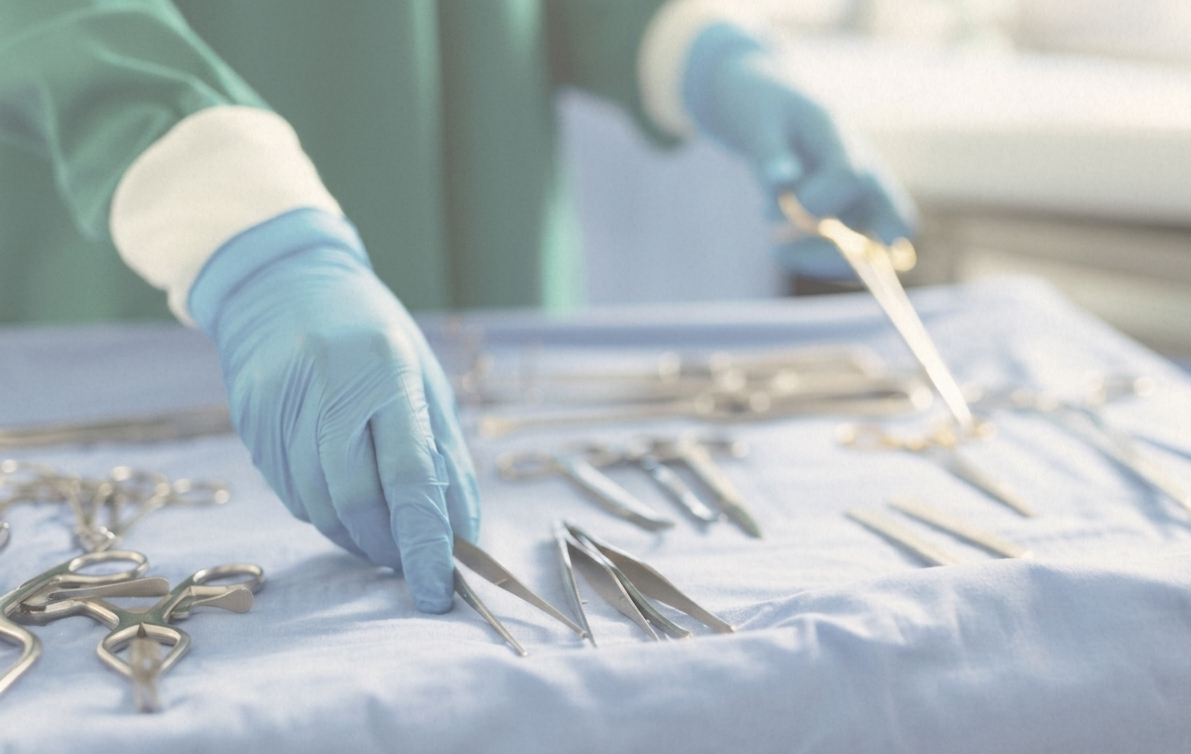
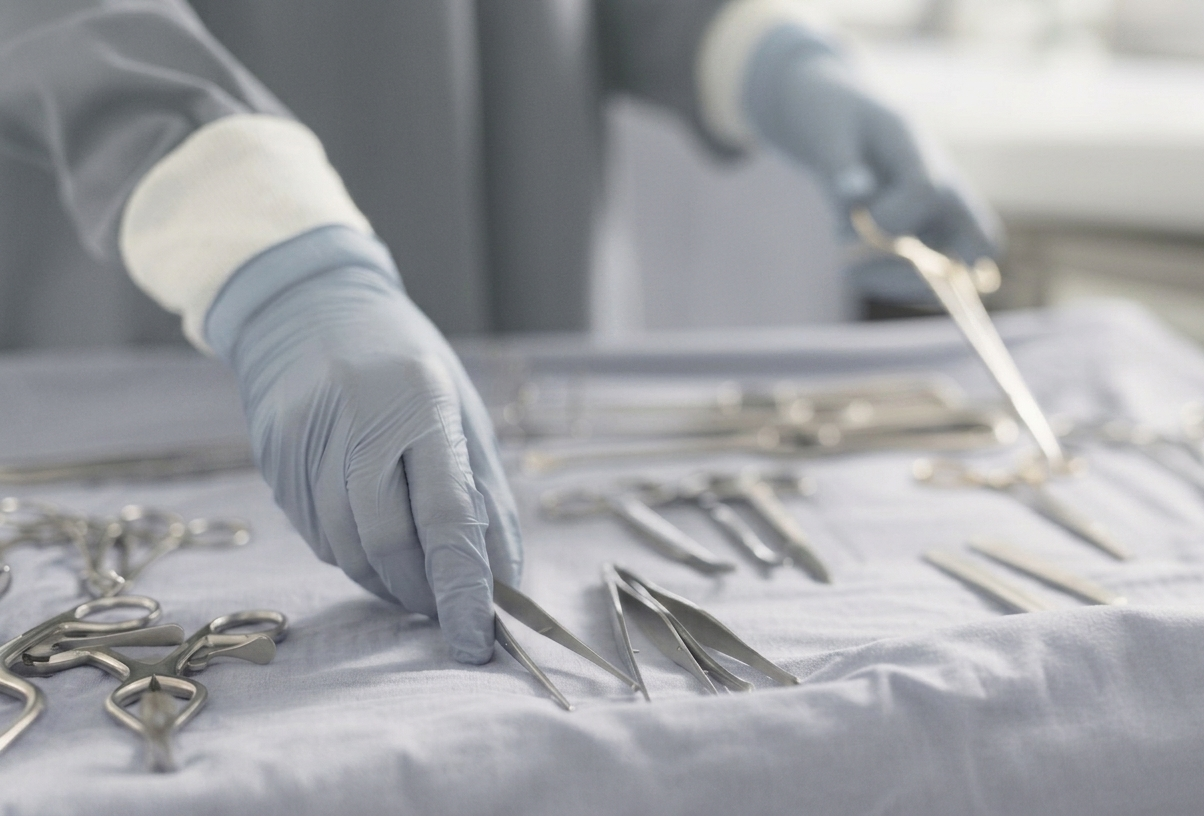
Refinamento visual dos títulos e ajustes de espaçamento entre secções

diff --git a/assets/css/1241327.css b/assets/css/1241327.css
@@ -121,9 +121,10 @@ html {
     align-items: center;              /* centraliza elementos na vertical */
     justify-content: space-between;   /* espaço entre elementos */
     gap: 60px;                        /* espaçamento entre elementos */
-    padding: 60px 80px;               /* espaçamento interno */
-    min-height: 100vh;                /* altura mínima para ocupar toda a tela */
+    padding: 60px 80px;     /* espaçamento interno */
+    min-height: calc(100vh - 150px);  /* altura mínima para ocupar toda a tela */
     background-color: white;        /* cor de fundo */
+    scroll-margin-top: 70px;         /* espaço para scroll */
 }
 
 .bem-vindo-content {
@@ -194,6 +195,7 @@ html {
 #sobre-nos {
     text-align: center;               /* centraliza o texto */
     padding: 100px 80px;              /* espaçamento superior e inferior */
+    scroll-margin-top: 20px;         /* espaço para scroll */
 }
 
 .sobre-nos-content {
@@ -226,8 +228,20 @@ html {
 
 
 #sobre-nos h1 {
-    font-size: 3em;                   /* aumenta o tamanho do título */
+    font-size: 2em;                   /* aumenta o tamanho do título */
     margin-bottom: 12px;              /* espaçamento abaixo do título */
+    display: flex;                    /* layout flexível */
+    align-items: center;              /* centraliza elementos na vertical */
+    justify-content: center;          /* centraliza elementos na horizontal */
+    gap: 20px;                        /* espaçamento entre o título e o ícone */
+}
+
+#sobre-nos h1::before, #sobre-nos h1::after {
+    content: "";                      /* necessário para criar os elementos antes e depois */
+    width: 80px;                      /* largura da linha */
+    height: 3px;                      /* espessura da linha */
+    background-color: #602323;      /* cor da linha */
+    border-radius: 10px;              /* bordas arredondadas */
 }
 
 #sobre-nos p {
@@ -263,7 +277,7 @@ section {
     max-width: 1200px;                /* largura máxima para limitar conteúdo */
     margin: 50px auto;                /* centraliza o conteúdo */
     padding: 50px;                    /* espaçamento interno */
-    scroll-margin-top: 100px;         /* espaço para scroll */
+    scroll-margin-top: 75px;         /* espaço para scroll */
 }
 
 #servicos-container {
@@ -289,8 +303,20 @@ section {
 }
 
 #servicos h1 {
-    font-size: 3em;                   /* aumenta o tamanho do título */
+    font-size: 2em;                   /* aumenta o tamanho do título */
     margin-bottom: 12px;              /* espaçamento abaixo do título */
+    display: flex;                    /* layout flexível */
+    align-items: center;              /* centraliza elementos na vertical */
+    justify-content: center;          /* centraliza elementos na horizontal */
+    gap: 20px;                        /* espaçamento entre o título e o ícone */
+}
+
+#servicos h1::before, #servicos h1::after {
+    content: "";                      /* necessário para criar os elementos antes e depois */
+    width: 80px;                      /* largura da linha */
+    height: 3px;                      /* espessura da linha */
+    background-color: #602323;      /* cor da linha */
+    border-radius: 10px;              /* bordas arredondadas */
 }
 
 #servicos p {
@@ -301,12 +327,17 @@ section {
 
 /* Efeito ao passar o rato no bloco */
 .servicos-card:hover {
-    transform: translateY(-8px) scale (1.03);          /* eleva o bloco e aumenta ligeiramente */
+    transform: translateY(-8px) scale(1.03);          /* eleva o bloco e aumenta ligeiramente */
     box-shadow: 0 15px 30px rgba(74, 14, 14, 0.76);     /* adiciona sombra para destacar o bloco */
 }
 
 
+
 /* Secção contacto */
+#contacto {
+    scroll-margin-top: 25px;         /* espaço para scroll */
+}
+
 #contacto form {
     display: flex;                    /* layout flexível */
     flex-direction: column;           /* organiza os elementos em coluna */
@@ -326,13 +357,25 @@ section {
 }
 
 #contacto h1 {
-    font-size: 3em;                   /* aumenta o tamanho do título */
-    margin-bottom: 5px;              /* espaçamento abaixo do título */
+    font-size: 2em;                   /* aumenta o tamanho do título */
+    margin-bottom: 5px;               /* espaçamento abaixo do título */
+    display: flex;                    /* layout flexível */
+    align-items: center;              /* centraliza elementos na vertical */
+    justify-content: center;          /* centraliza elementos na horizontal */
+    gap: 20px;                        /* espaçamento entre o título e o ícone */
+}
+
+#contacto h1::before, #contacto h1::after {
+    content: "";                      /* necessário para criar os elementos antes e depois */
+    width: 80px;                      /* largura da linha */
+    height: 3px;                      /* espessura da linha */
+    background-color: #602323;      /* cor da linha */
+    border-radius: 10px;              /* bordas arredondadas */
 }
 
 #contacto p {
     font-size: 1em;                   /* aumenta o tamanho do texto */
-    margin-bottom: 12px;               /* espaçamento abaixo do parágrafo */
+    margin-bottom: 12px;              /* espaçamento abaixo do parágrafo */
     line-height: 1.6;                 /* aumenta o espaçamento entre linhas para melhor legibilidade */
     
 }

diff --git a/public/index.html b/public/index.html
@@ -47,7 +47,7 @@
     <!-- Secção "Conteúdo da página - Bem-vindo" --> 
     <section class="container-texto-generico" id="bem-vindo">
         <div class="bem-vindo-content">
-            <h1>Bem-vindo à Stay This.Positive</h1> 
+            <h1>Bem-vindo à <br>Stay This.Positive</br></h1> 
             <p>"Inventário inteligente, saúde para toda a gente"</p>
         </div>
 
